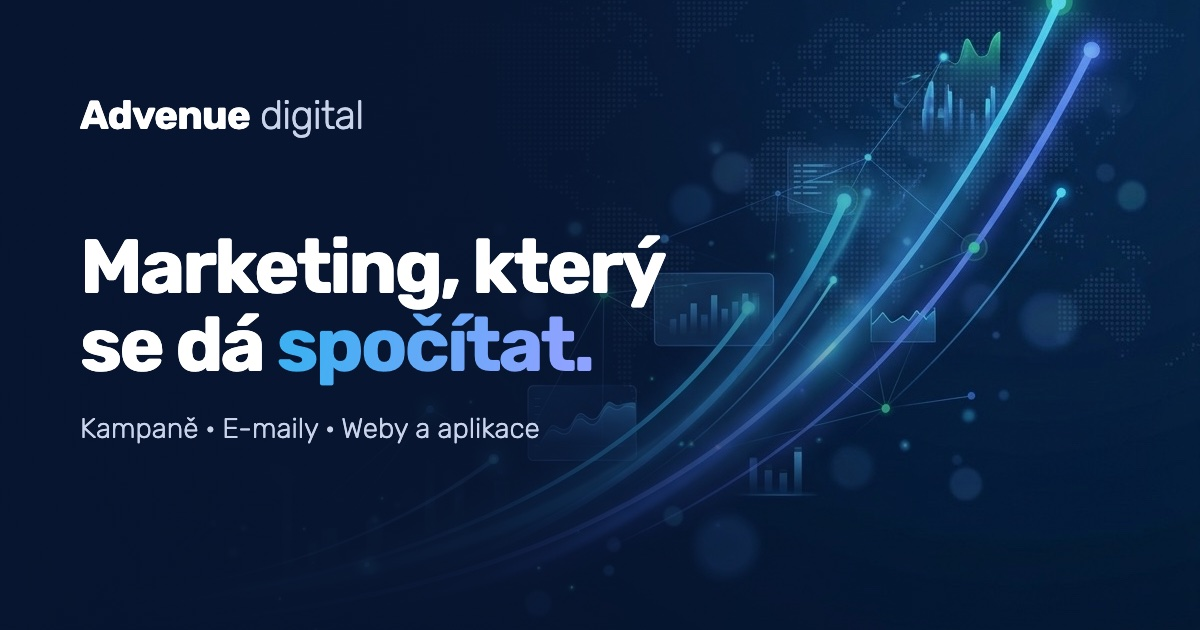
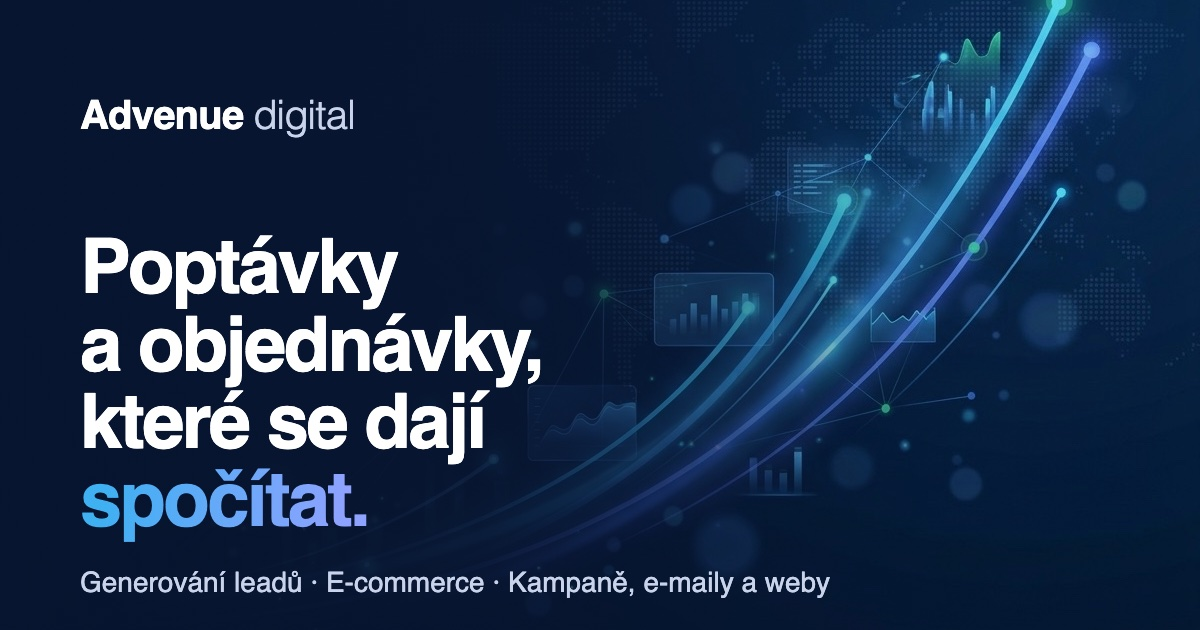
Position Advenue as lead generation and e-commerce specialists
Copy only, page structure unchanged: home, services, About, contact lead,
titles, descriptions, Organization description and the share image.

Changed region(s): [[0.0617, 0.3619, 0.555, 0.8746], [0.0617, 0.9048, 0.7092, 0.9651], [0.0617, 0.1508, 0.3083, 0.2111]]

diff --git a/src/pages/index.html b/src/pages/index.html
@@ -1,7 +1,7 @@
   <header class="hero hero--photo">
     <div class="hero-copy">
-      <h1>Marketing, který se dá <em>spočítat.</em></h1>
-      <p class="lead">Spravujeme výkonnostní kampaně, posíláme e-maily, které lidé otevírají, a stavíme weby a aplikace, které prodávají.</p>
+      <h1>Poptávky a&nbsp;objednávky, které se dají <em>spočítat.</em></h1>
+      <p class="lead">Jsme agentura specialistů na generování leadů a e-commerce. Kampaněmi, e-maily a weby přivádíme firmám poptávky a&nbsp;e-shopům objednávky. Rozpočet řídíme podle toho, kolik vám vydělá.</p>
       <div class="hero-actions">
         <a class="btn btn--primary" href="/kontakt/">Chci audit zdarma
           <svg viewBox="0 0 20 20" fill="none" stroke="currentColor" stroke-width="2" aria-hidden="true"><path d="M4 10h11M11 5l5 5-5 5" stroke-linecap="round" stroke-linejoin="round"/></svg>
@@ -12,10 +12,10 @@
     </div>
   </header>
 
-<div class="marquee" aria-label="Platformy a služby: Google Ads, Sklik, Meta, LinkedIn, e-mailové automatizace, newslettery, weby, e-shopy, aplikace na míru, měření v GA4, Kandidátomat">
+<div class="marquee" aria-label="Platformy a služby: generování leadů, e-commerce, Google Ads, Sklik, Meta, LinkedIn, e-mailové automatizace, newslettery, weby, e-shopy, aplikace na míru, měření v GA4, Kandidátomat">
   <div class="marquee-track" aria-hidden="true">
-    <span>Google Ads</span><span>Sklik</span><span>Facebook a Instagram</span><span>LinkedIn Ads</span><span>E-mailové automatizace</span><span>Newslettery</span><span>Weby</span><span>E-shopy</span><span>Aplikace na míru</span><span>Měření v GA4</span><span>Kandidátomat</span>
-    <span>Google Ads</span><span>Sklik</span><span>Facebook a Instagram</span><span>LinkedIn Ads</span><span>E-mailové automatizace</span><span>Newslettery</span><span>Weby</span><span>E-shopy</span><span>Aplikace na míru</span><span>Měření v GA4</span><span>Kandidátomat</span>
+    <span>Generování leadů</span><span>E-commerce</span><span>Google Ads</span><span>Sklik</span><span>Facebook a Instagram</span><span>LinkedIn Ads</span><span>E-mailové automatizace</span><span>Newslettery</span><span>Weby</span><span>E-shopy</span><span>Aplikace na míru</span><span>Měření v GA4</span><span>Kandidátomat</span>
+    <span>Generování leadů</span><span>E-commerce</span><span>Google Ads</span><span>Sklik</span><span>Facebook a Instagram</span><span>LinkedIn Ads</span><span>E-mailové automatizace</span><span>Newslettery</span><span>Weby</span><span>E-shopy</span><span>Aplikace na míru</span><span>Měření v GA4</span><span>Kandidátomat</span>
   </div>
 </div>
 
@@ -24,7 +24,7 @@
     <div class="section-head" style="margin-bottom: 0">
       <p class="label">Cesta zákazníka</p>
       <h2>Celá cesta zákazníka pod jednou střechou</h2>
-      <p>Kampaně přivedou lidi na web, web je promění v zákazníky a e-maily je přivedou zpátky. Každý krok na sebe navazuje, protože ho máme v rukou my.</p>
+      <p>Kampaně přivedou lidi na web, web z nich udělá poptávky a objednávky a e-maily je přivedou zpátky. Každý krok na sebe navazuje, protože ho máme v rukou my.</p>
     </div>
       <figure class="journey" aria-label="Cesta zákazníka: oslovení a návštěva přes kampaně, prodej na webu, další nákup přes e-mail">
         <div class="journey-head">
@@ -67,7 +67,7 @@
     <div class="section-head">
       <p class="label">Služby</p>
       <h2>Tři služby, které na sebe navazují</h2>
-      <p>Kampaně přivedou lidi, web z nich udělá poptávky a e-maily je přivedou zpátky. Můžete začít jednou službou, nebo svěřit celou cestu nám.</p>
+      <p>Leady pro firmy se službami a objednávky pro e-shopy stavíme na kampaních, webu a e-mailech. Můžete začít jednou službou, nebo svěřit celou cestu nám.</p>
     </div>
 
     <div class="services">
@@ -75,11 +75,11 @@
         <div class="service-copy">
           <p class="label tag">Výkonnostní marketing</p>
           <h3>Kampaně, které řídíme podle čísel</h3>
-          <p>Nastavíme a průběžně ladíme kampaně ve vyhledávání, na sociálních sítích i v nákupních srovnávačích. Rozpočet přesouváme tam, kde přináší objednávky a poptávky.</p>
+          <p>Kampaně ve vyhledávání, na sociálních sítích i v nákupních srovnávačích ladíme na dva cíle: poptávky za rozumnou cenu a objednávky, které se vyplatí. Rozpočet přesouváme tam, kde vydělává nejvíc.</p>
           <ul>
             <li>Google Ads a Sklik</li>
-            <li>Facebook a Instagram</li>
-            <li>Měření konverzí v GA4</li>
+            <li>Facebook, Instagram a LinkedIn</li>
+            <li>Měření leadů a tržeb v GA4</li>
             <li>Srozumitelný měsíční report</li>
           </ul>
           <a class="more" href="/sprava-reklam-v-online-prostredi/">Více o správě reklam →</a>
@@ -100,12 +100,12 @@
         <div class="service-copy">
           <p class="label tag">E-mail marketing</p>
           <h3>E-maily, které pracují, i když spíte</h3>
-          <p>Připravíme newslettery a automatizace, které pošlou správnou zprávu ve správnou chvíli. Zákazník, který u vás jednou nakoupil, se vrátí.</p>
+          <p>E-shopům nastavíme automatizace, které vracejí zákazníky k dalšímu nákupu. Firmám se službami e-maily, které z nových kontaktů udělají poptávky.</p>
           <ul>
             <li>Uvítací série</li>
             <li>Opuštěný košík</li>
-            <li>Pravidelné newslettery</li>
-            <li>Segmentace a A/B testy</li>
+            <li>Péče o nové leady</li>
+            <li>Newslettery a A/B testy</li>
           </ul>
           <a class="more" href="/e-mail-marketing/">Více o e-mail marketingu →</a>
         </div>
@@ -138,11 +138,11 @@
         <div class="service-copy">
           <p class="label tag">Weby a aplikace</p>
           <h3>Weby a aplikace postavené na výkon</h3>
-          <p>Navrhneme a postavíme firemní web, e-shop nebo webovou aplikaci. Rychlé, přehledné a od prvního dne napojené na měření, takže víte, odkud přicházejí poptávky.</p>
+          <p>Postavíme e-shop, landing page nebo firemní web, který z návštěvníků dělá objednávky a poptávky. Rychlý, přehledný a od prvního dne napojený na měření.</p>
           <ul>
-            <li>Firemní weby a landing pages</li>
             <li>E-shopy</li>
-            <li>Webové aplikace na míru</li>
+            <li>Landing pages pro sběr leadů</li>
+            <li>Firemní weby a aplikace na míru</li>
             <li>Rychlost, SEO a měření</li>
           </ul>
           <a class="more" href="/weby-e-shopy-vyvoj-aplikaci/">Více o webech a aplikacích →</a>
@@ -171,7 +171,7 @@
     <div class="section-head" style="margin-bottom: 0">
       <p class="label">Proč Advenue</p>
       <h2>Mluvíte přímo s tím, kdo vaše kampaně dělá</h2>
-      <p>O kampaně se starají seniorní specialisté a komunikujete přímo s nimi, bez account managera uprostřed. Informace se cestou neztrácejí a na změny reagujeme hned.</p>
+      <p>Vaše kampaně vede seniorní specialista na leady nebo e-commerce a komunikujete přímo s ním, bez account managera uprostřed. Informace se cestou neztrácejí a na změny reagujeme hned.</p>
       <a class="more" href="/o-nas/" style="margin-top: 0.5rem">Více o nás →</a>
     </div>
     <div class="panel panel--us" aria-hidden="true">
@@ -191,8 +191,8 @@
       <h2>Od prvního hovoru k výsledkům</h2>
     </div>
     <ol class="steps">
-      <li><h3>Audit zdarma</h3><p>Projdeme vaše kampaně, web a e-maily a ukážeme, kde vám utíkají poptávky.</p></li>
-      <li><h3>Plán</h3><p>Domluvíme cíle, rozpočet a čísla, podle kterých budeme úspěch měřit.</p></li>
+      <li><h3>Audit zdarma</h3><p>Projdeme vaše kampaně, web a e-maily a ukážeme, kde vám utíkají poptávky a objednávky.</p></li>
+      <li><h3>Plán</h3><p>Domluvíme cíle, rozpočet a čísla, podle kterých budeme úspěch měřit, třeba cenu za lead nebo PNO.</p></li>
       <li><h3>Spuštění</h3><p>Nastavíme kampaně a automatizace, nebo postavíme nový web.</p></li>
       <li><h3>Vyhodnocení</h3><p>Každý měsíc dostanete report a návrh, co zlepšit dál.</p></li>
     </ol>
@@ -257,7 +257,7 @@
   <div class="wrap contact">
     <div class="contact-copy">
       <p class="label">Kontakt</p>
-      <h2>Kde vám utíkají poptávky? Podíváme se na to zdarma.</h2>
+      <h2>Kde vám utíkají poptávky a objednávky? Podíváme se na to zdarma.</h2>
       <p>Napište nám pár vět o vaší firmě. Navrhneme termín krátkého online hovoru a ukážeme, co by šlo zlepšit.</p>
     </div>
     <div class="mailbox">

diff --git a/src/pages/nase-sluzby.html b/src/pages/nase-sluzby.html
@@ -2,7 +2,7 @@
     <header class="page-head">
       <p class="label">Služby</p>
       <h1>Co pro vás uděláme</h1>
-      <p class="lead">Kampaně, e-maily, weby a aplikace. Každou službu můžete využít samostatně. Nejvíc ale přinesou, když na sebe navazují.</p>
+      <p class="lead">Generování leadů a výkon e-shopů stavíme na kampaních, e-mailech a webech. Každou službu můžete využít samostatně, nejvíc ale přinesou, když na sebe navazují.</p>
       <nav class="jump" aria-label="Naše služby">
         <a class="s-ads" href="/sprava-reklam-v-online-prostredi/">Výkonnostní marketing</a>
         <a class="s-mail" href="/e-mail-marketing/">E-mail marketing</a>
@@ -15,11 +15,11 @@
         <div class="service-copy">
           <p class="label tag">Výkonnostní marketing</p>
           <h2>Kampaně, které řídíme podle čísel</h2>
-          <p>Nastavíme a průběžně ladíme kampaně ve vyhledávání, na sociálních sítích i v nákupních srovnávačích. Rozpočet přesouváme tam, kde přináší objednávky a poptávky.</p>
+          <p>Kampaně ve vyhledávání, na sociálních sítích i v nákupních srovnávačích ladíme na dva cíle: poptávky za rozumnou cenu a objednávky, které se vyplatí. Rozpočet přesouváme tam, kde vydělává nejvíc.</p>
           <ul>
             <li>Google Ads a Sklik</li>
-            <li>Facebook a Instagram</li>
-            <li>Měření konverzí v GA4</li>
+            <li>Facebook, Instagram a LinkedIn</li>
+            <li>Měření leadů a tržeb v GA4</li>
             <li>Srozumitelný měsíční report</li>
           </ul>
           <a class="more" href="/sprava-reklam-v-online-prostredi/">Více o správě reklam →</a>
@@ -40,12 +40,12 @@
         <div class="service-copy">
           <p class="label tag">E-mail marketing</p>
           <h2>E-maily, které pracují, i když spíte</h2>
-          <p>Připravíme newslettery a automatizace, které pošlou správnou zprávu ve správnou chvíli. Zákazník, který u vás jednou nakoupil, se vrátí.</p>
+          <p>E-shopům nastavíme automatizace, které vracejí zákazníky k dalšímu nákupu. Firmám se službami e-maily, které z nových kontaktů udělají poptávky.</p>
           <ul>
             <li>Uvítací série</li>
             <li>Opuštěný košík</li>
-            <li>Pravidelné newslettery</li>
-            <li>Segmentace a A/B testy</li>
+            <li>Péče o nové leady</li>
+            <li>Newslettery a A/B testy</li>
           </ul>
           <a class="more" href="/e-mail-marketing/">Více o e-mail marketingu →</a>
         </div>
@@ -78,11 +78,11 @@
         <div class="service-copy">
           <p class="label tag">Weby a aplikace</p>
           <h2>Weby a aplikace postavené na výkon</h2>
-          <p>Navrhneme a postavíme firemní web, e-shop nebo webovou aplikaci. Rychlé, přehledné a od prvního dne napojené na měření, takže víte, odkud přicházejí poptávky.</p>
+          <p>Postavíme e-shop, landing page nebo firemní web, který z návštěvníků dělá objednávky a poptávky. Rychlý, přehledný a od prvního dne napojený na měření.</p>
           <ul>
-            <li>Firemní weby a landing pages</li>
             <li>E-shopy</li>
-            <li>Webové aplikace na míru</li>
+            <li>Landing pages pro sběr leadů</li>
+            <li>Firemní weby a aplikace na míru</li>
             <li>Rychlost, SEO a měření</li>
           </ul>
           <a class="more" href="/weby-e-shopy-vyvoj-aplikaci/">Více o webech a aplikacích →</a>

diff --git a/src/pages/sprava-reklam-v-online-prostredi.html b/src/pages/sprava-reklam-v-online-prostredi.html
@@ -13,12 +13,12 @@
       <div class="detail-intro">
         <p class="label tag">Výkonnostní marketing</p>
         <h2>Reklamy na sociálních sítích, Googlu a Seznamu</h2>
-        <p>Základem každé kampaně je strategie. Začneme analýzou současného stavu, nastavíme správné kroky a kampaně pak průběžně ladíme podle výsledků.</p>
+        <p>Kampaně stavíme na jednom ze dvou cílů: poptávky za rozumnou cenu, nebo objednávky e-shopu, které se vyplatí. Začneme analýzou současného stavu, nastavíme měření a kampaně pak průběžně ladíme podle výsledků.</p>
         <ul>
           <li>Analýza a strategie</li>
           <li>Tvorba reklam a kreativy</li>
-          <li>Průběžná optimalizace rozpočtu</li>
-          <li>Měření konverzí v GA4</li>
+          <li>Optimalizace na cenu za lead nebo PNO</li>
+          <li>Měření leadů a tržeb v GA4</li>
           <li>Srozumitelný měsíční report</li>
         </ul>
       </div>
@@ -26,17 +26,17 @@
         <article class="card">
           <p class="label">Sociální sítě</p>
           <h3>Facebook, Instagram a LinkedIn</h3>
-          <p>Cílené kampaně, které zaujmou vaše publikum. Budují povědomí o značce, přivádějí konverze a věrné zákazníky.</p>
+          <p>Kampaně s formuláři pro sběr leadů přímo na Facebooku a LinkedInu a dynamické reklamy z produktového katalogu pro e-shopy. Nové leady posíláme rovnou do vašeho e-mailu nebo CRM.</p>
         </article>
         <article class="card">
           <p class="label">Vyhledávač Google</p>
           <h3>Google Ads</h3>
-          <p>Klíčová slova, texty reklam a sledování výkonu. Zákazníci vás najdou přesně ve chvíli, kdy hledají to, co nabízíte.</p>
+          <p>Vyhledávání, nákupní kampaně a Performance Max. Zákazníci vás najdou přesně ve chvíli, kdy hledají to, co nabízíte.</p>
         </article>
         <article class="card">
           <p class="label">Seznam.cz a partnerské weby</p>
           <h3>Sklik</h3>
-          <p>Česká reklamní síť, která osloví lidi na Seznamu a jeho partnerských webech. Pro firmy na českém trhu důležitý doplněk ke Google Ads.</p>
+          <p>Česká reklamní síť, která osloví lidi na Seznamu a jeho partnerských webech, pro e-shopy i s produktovými kampaněmi. Pro firmy na českém trhu důležitý doplněk ke Google Ads.</p>
         </article>
         <article class="card card--special">
           <p class="label">HR marketing</p>

diff --git a/src/pages/o-nas.html b/src/pages/o-nas.html
@@ -2,7 +2,7 @@
     <header class="page-head">
       <p class="label">O nás</p>
       <h1>Mluvíte přímo s lidmi, kteří vaše kampaně dělají</h1>
-      <p class="lead">O vaše kampaně se starají seniorní specialisté a komunikujete přímo s nimi, bez account managera uprostřed. Informace se tak cestou neztrácejí a na změny reagujeme hned.</p>
+      <p class="lead">Jsme agentura specialistů na generování leadů a e-commerce. O vaše kampaně se starají seniorní specialisté a komunikujete přímo s nimi, bez account managera uprostřed. Informace se tak cestou neztrácejí a na změny reagujeme hned.</p>
     </header>
 
     <div class="about-split">
@@ -32,7 +32,7 @@
       <article class="pillar">
         <svg viewBox="0 0 36 36" fill="none" aria-hidden="true"><circle cx="18" cy="12" r="6" stroke="#3e5fc4" stroke-width="2.5"/><path d="M7 31c1.5-6 6-9 11-9s9.5 3 11 9" stroke="#3e5fc4" stroke-width="2.5" stroke-linecap="round"/><path d="m24 6 2 2 4-4" stroke="#65bd7d" stroke-width="2.5" stroke-linecap="round" stroke-linejoin="round"/></svg>
         <h2>Seniorní specialisté</h2>
-        <p>Kampaně nastavují a ladí zkušení lidé. Ti samí, se kterými o nich mluvíte.</p>
+        <p>Kampaně na leady i pro e-shopy nastavují a ladí zkušení lidé. Ti samí, se kterými o nich mluvíte.</p>
       </article>
       <article class="pillar">
         <svg viewBox="0 0 36 36" fill="none" aria-hidden="true"><path d="M5 9h17a3 3 0 0 1 3 3v7a3 3 0 0 1-3 3h-9l-6 5v-5H5" stroke="#198fd9" stroke-width="2.5" stroke-linejoin="round"/><path d="M28 14h3v11h-3v4l-5-4h-5" stroke="#3e5fc4" stroke-width="2.5" stroke-linejoin="round"/></svg>
@@ -52,7 +52,8 @@
         <h2>Agentura, která vyrostla z doporučení</h2>
       </div>
       <div class="story-text">
-        <p>Advenue vzniklo ve chvíli, kdy nás začali oslovovat lidé z našeho okolí. Potřebovali víc prodávat online, hlavně přes PPC kampaně a sociální sítě.</p>
+        <p>Advenue vzniklo ve chvíli, kdy nás začali oslovovat lidé z našeho okolí. Potřebovali víc poptávek a víc prodávat online, hlavně přes PPC kampaně a sociální sítě.</p>
+        <p>Dnes se specializujeme na dvě věci: generování leadů pro firmy, které prodávají služby, a výkon e-shopů.</p>
         <p>Postupně jsme přidali tvorbu webů, e-shopů a aplikací. S nástupem umělé inteligence stavíme také chatboty a hlasové asistenty. Sídlíme v Praze na Vinohradech.</p>
       </div>
     </section>

diff --git a/src/pages/weby-e-shopy-vyvoj-aplikaci.html b/src/pages/weby-e-shopy-vyvoj-aplikaci.html
@@ -13,7 +13,7 @@
       <div class="detail-intro">
         <p class="label tag">Weby a aplikace</p>
         <h2>Weby, e-shopy a aplikace na míru</h2>
-        <p>Máme vlastní designéry i vývojáře. Vaši značku přeneseme do webu, e-shopu nebo aplikace, která funguje na mobilu a od prvního dne měří výsledky.</p>
+        <p>Máme vlastní designéry i vývojáře. Stavíme e-shopy a landing pages, které z návštěvníků dělají objednávky a poptávky, fungují na mobilu a od prvního dne měří výsledky.</p>
         <ul>
           <li>Návrh designu</li>
           <li>Vývoj na míru</li>
@@ -25,14 +25,14 @@
       </div>
       <div class="cards">
         <article class="card">
-          <p class="label">Prezentace firmy</p>
-          <h3>Weby</h3>
-          <p>Moderní web, který návštěvníkům jasně řekne, co děláte. Responzivní a optimalizovaný pro vyhledávače.</p>
+          <p class="label">Sběr poptávek</p>
+          <h3>Weby a landing pages</h3>
+          <p>Web nebo landing page, která návštěvníkům jasně řekne, co děláte, a dovede je k poptávce. Formuláře napojíme rovnou na váš e-mail nebo CRM.</p>
         </article>
         <article class="card">
           <p class="label">Online prodej</p>
           <h3>E-shopy</h3>
-          <p>E-shop, ve kterém se zákazníci snadno vyznají. Bezpečné platební brány a měření, díky kterému uvidíte, jak zákazníci nakupují.</p>
+          <p>E-shop, ve kterém se zákazníci snadno vyznají. Bezpečné platby, produktové feedy pro Google, Sklik a srovnávače a měření, díky kterému uvidíte, jak zákazníci nakupují.</p>
         </article>
         <article class="card card--wide">
           <p class="label">iOS · Android · web</p>

diff --git a/src/pages/e-mail-marketing.html b/src/pages/e-mail-marketing.html
@@ -13,7 +13,7 @@
       <div class="detail-intro">
         <p class="label tag">E-mail marketing</p>
         <h2>E-maily, které pracují za vás</h2>
-        <p>Navrhneme, napíšeme a nastavíme e-maily, které oslovují zákazníky ve správnou chvíli. Automatizace prodávají nepřetržitě, newslettery udržují kontakt.</p>
+        <p>E-shopům nastavíme automatizace, které vracejí zákazníky k dalšímu nákupu. Firmám se službami e-maily, které nové leady provedou až k poptávce. Navrhneme, napíšeme a nastavíme je za vás.</p>
         <ul>
           <li>Šablony v designu vaší značky</li>
           <li>Texty e-mailů</li>
@@ -26,7 +26,7 @@
         <article class="card">
           <p class="label">Běží samy</p>
           <h3>Automatizace</h3>
-          <p>Uvítací série, opuštěný košík, poděkování po nákupu nebo připomenutí po delší pauze. Nastavíme je jednou a pracují nepřetržitě.</p>
+          <p>Uvítací série, opuštěný košík, poděkování po nákupu nebo série pro nové leady, která je dovede k poptávce. Nastavíme je jednou a pracují nepřetržitě.</p>
         </article>
         <article class="card">
           <p class="label">Pravidelně</p>

diff --git a/src/pages/kontakt.html b/src/pages/kontakt.html
@@ -2,7 +2,7 @@
     <header class="page-head">
       <p class="label">Kontakt</p>
       <h1>Pojďme se domluvit</h1>
-      <p class="lead">Napište nám, s čím potřebujete pomoct. Ozveme se, navrhneme termín krátkého online hovoru a úvodní audit uděláme zdarma.</p>
+      <p class="lead">Potřebujete víc poptávek, nebo víc objednávek na e-shopu? Napište nám, s čím potřebujete pomoct. Ozveme se, navrhneme termín krátkého online hovoru a úvodní audit uděláme zdarma.</p>
     </header>
 
     <div class="contact-grid">

diff --git a/build.py b/build.py
@@ -52,33 +52,33 @@ GUIDES = ("Návody", "/navody/")
 # which main-menu item is active, breadcrumb trail and structured-data kind.
 PAGES = [
     dict(src="index", path="/", kind="home", nav=None,
-         title="Výkonnostní marketing, e-maily a weby | Advenue digital",
-         description="Spravujeme výkonnostní kampaně, posíláme e-maily, které lidé otevírají, "
-                     "a stavíme weby a aplikace, které prodávají. Úvodní audit zdarma."),
+         title="Generování leadů a e-commerce marketing | Advenue digital",
+         description="Agentura specialistů na generování leadů a e-commerce. Kampaně, e-maily "
+                     "a weby, které firmám přinášejí poptávky a e-shopům objednávky. Audit zdarma."),
     dict(src="nase-sluzby", path="/nase-sluzby/", kind="page", nav="sluzby", crumbs=[HOME],
          title="Služby: kampaně, e-maily, weby a aplikace | Advenue digital",
-         description="Kampaně, e-maily, weby a aplikace. Každou službu můžete využít samostatně. "
-                     "Nejvíc ale přinesou, když na sebe navazují."),
+         description="Generování leadů a výkon e-shopů: kampaně, e-maily, weby a aplikace. Každou "
+                     "službu můžete využít samostatně, nejvíc přinesou dohromady."),
     dict(src="sprava-reklam-v-online-prostredi", path="/sprava-reklam-v-online-prostredi/",
          kind="service", nav="sluzby", crumbs=[HOME, SERVICES],
          service="Správa reklam a online kampaní", min_price=15000,
          title="Správa reklam a online kampaní | Advenue digital",
          description="Správa digitálních kampaní v Google Ads, Skliku, na Facebooku, Instagramu "
-                     "a LinkedInu. Řídíme je podle objednávek a poptávek. Od 15 000 Kč měsíčně."),
+                     "a LinkedInu. Řídíme je podle ceny za lead a tržeb e-shopu. Od 15 000 Kč měsíčně."),
     dict(src="e-mail-marketing", path="/e-mail-marketing/", kind="service", nav="sluzby",
          crumbs=[HOME, SERVICES], service="E-mail marketing",
          title="E-mail marketing a automatizace | Advenue digital",
-         description="Navrhneme, napíšeme a nastavíme e-maily, které oslovují zákazníky ve správnou "
-                     "chvíli. Automatizace, newslettery, segmentace a A/B testy."),
+         description="E-mailové automatizace, které vracejí zákazníky e-shopů k nákupu a nové leady "
+                     "vedou k poptávce. Newslettery, segmentace a A/B testy."),
     dict(src="weby-e-shopy-vyvoj-aplikaci", path="/weby-e-shopy-vyvoj-aplikaci/", kind="service",
          nav="sluzby", crumbs=[HOME, SERVICES], service="Weby, e-shopy a vývoj aplikací",
          title="Weby, e-shopy a vývoj aplikací na míru | Advenue digital",
-         description="Weby, e-shopy a aplikace na míru, které fungují na mobilu a od prvního dne "
-                     "měří výsledky. Aplikace od 25 000 Kč, hotové do 14 dnů."),
+         description="E-shopy, landing pages a aplikace na míru, které z návštěvníků dělají objednávky "
+                     "a poptávky. Aplikace od 25 000 Kč, hotové do 14 dnů."),
     dict(src="o-nas", path="/o-nas/", kind="page", nav="o-nas", crumbs=[HOME],
          title="O nás | Advenue digital",
-         description="O vaše kampaně se starají seniorní specialisté a komunikujete přímo s nimi, "
-                     "bez account managera uprostřed. Digitální agentura z Prahy."),
+         description="Pražská agentura specialistů na generování leadů a e-commerce. Komunikujete "
+                     "přímo se seniorním specialistou, bez account managera uprostřed."),
     dict(src="reference", path="/reference/", kind="page", nav="reference", crumbs=[HOME],
          title="Reference | Advenue digital",
          description="Výběr z našich projektů: weby a kampaně pro absl.cz, SCALL, AutoTarga, "
@@ -247,7 +247,8 @@ def organization():
         "@id": ORG_ID,
         "name": "Advenue digital s.r.o.",
         "alternateName": SITE_NAME,
-        "description": "Výkonnostní marketing, e-mail marketing, weby a aplikace.",
+        "description": "Agentura specialistů na generování leadů a e-commerce: výkonnostní kampaně, "
+                       "e-mail marketing, weby a aplikace.",
         "url": DOMAIN + "/",
         "image": OG_IMAGE,
         "email": "info@advenue.cz",
